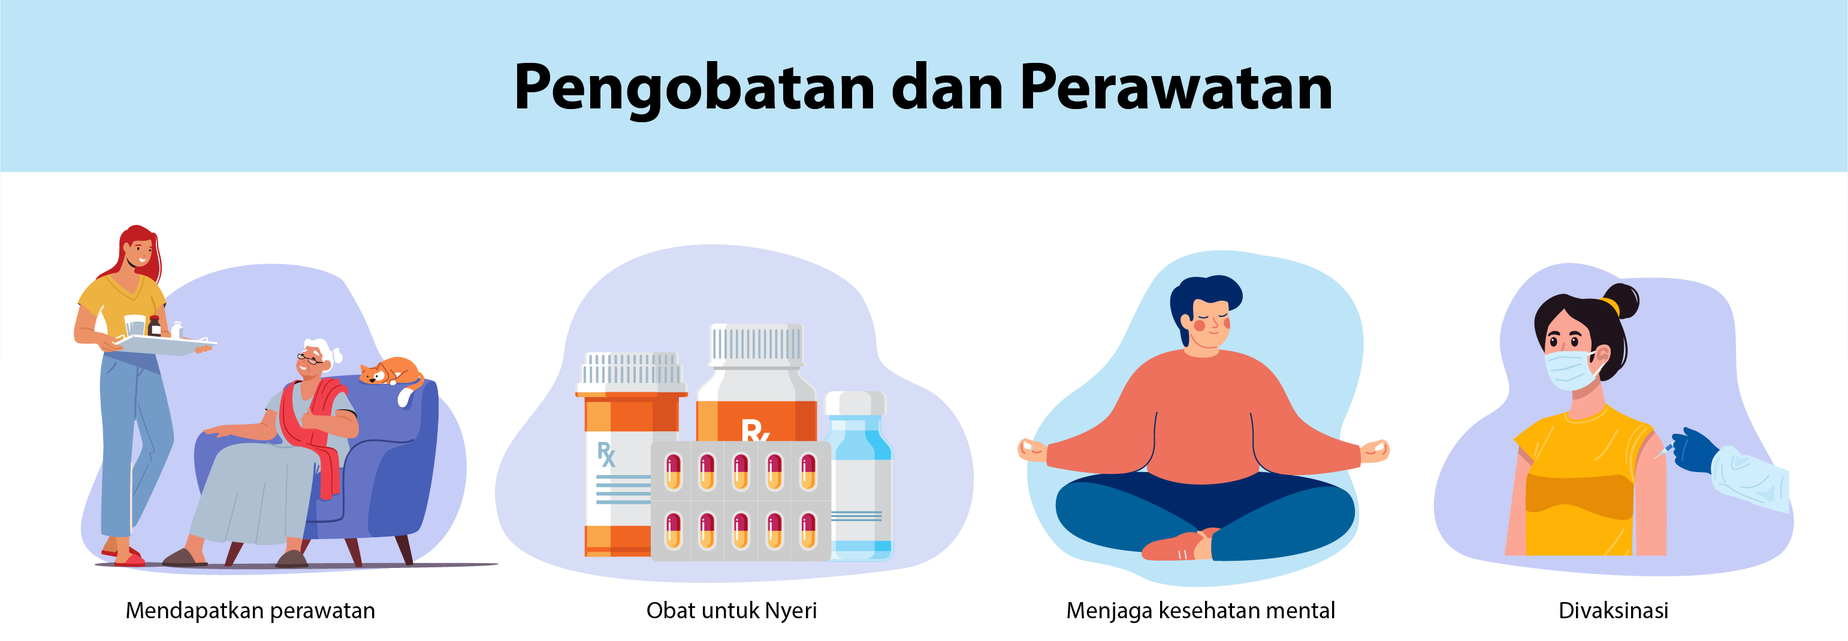
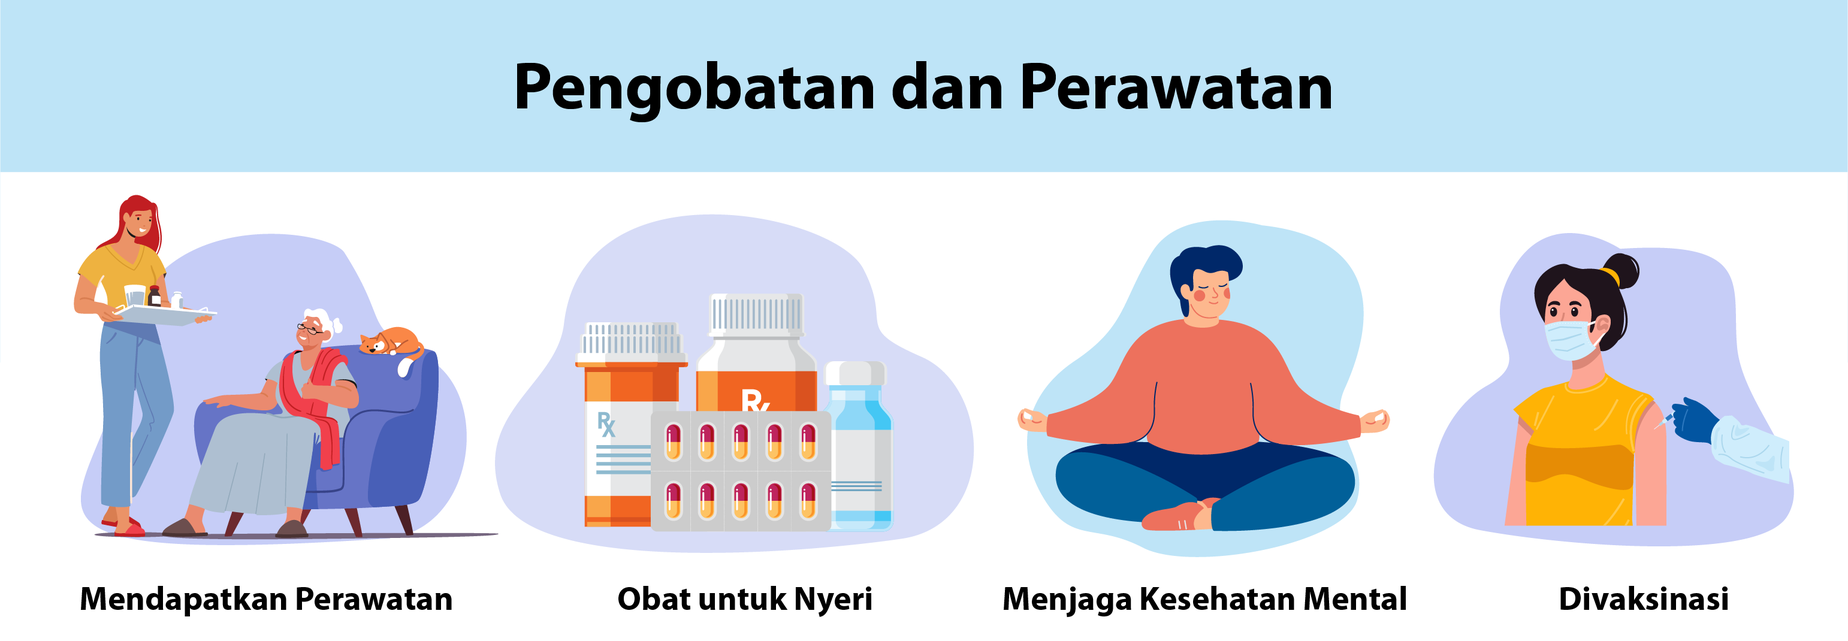
update

Changed region(s): [[0.0311, 0.3084, 0.9961, 0.9869], [0.3113, 0.3084, 0.4981, 0.4935]]

diff --git a/sass/style.css b/sass/style.css
@@ -1,1 +1,1 @@
-@font-face{font-family:"levi";src:url("../fonts/LEVIBRUSH.woff2");src:local("../fonts/LEVIBRUSH.woff2");src:url("../fonts/LEVIBRUSH.woff2") format("woff2")}section{background:#fafafa;position:relative;padding:32px 0;z-index:30}section h2{text-align:left}@keyframes lab_round{0%{transform:rotateZ(0deg)}100%{transform:rotateZ(359deg)}}.banner{height:100vh;position:relative;padding:0}.banner .sumbers{font-size:12px}.banner .sumbers a{color:#fff}.banner:after{content:"";position:absolute;bottom:0;left:0;right:0;height:500px;background:linear-gradient(to top, #06264d, transparent)}.banner__help{position:absolute;right:16px;z-index:9;top:46px;animation:lab_round 20s linear infinite}@media screen and (min-width: 1400px){.banner__help{right:10%;top:54px}}@media screen and (max-width: 766px){.banner__help{filter:brightness(0.8);position:absolute;right:20%;left:-20%;z-index:9;top:0;animation:lab_round 20s linear infinite}}.banner__help img{width:100%;height:100%;object-fit:contain}.banner__monyet{position:absolute;bottom:82px;left:50%;width:200px;height:auto;transform:translate(-50%, 0)}@media screen and (max-width: 766px){.banner__monyet{bottom:100px}}.banner__monyet.two{bottom:120px;left:42%;width:130px}.banner__monyet.three{bottom:50%;opacity:.5;left:45%;width:100px;height:100px}.banner__monyet.four{bottom:35%;opacity:.5;left:35%;width:145px;height:145px}.banner__monyet img{width:100%;height:100%;object-fit:contain}.banner__img{width:100%;height:100%}.banner__img img{width:100%;height:100%;object-fit:cover}.banner__title{position:absolute;left:32px;bottom:32px;width:700px;z-index:9}@media screen and (min-width: 1400px){.banner__title{left:15%}}@media screen and (max-width: 766px){.banner__title{left:0;width:fit-content;top:initial;bottom:52px}}.banner__title h2{color:#fff;font-size:60px;font-family:"Acme";text-shadow:2px 2px #000}@media screen and (max-width: 766px){.banner__title h2{line-height:46px;font-size:43px;margin:0 8px}}.banner__data{bottom:32px;left:72px;display:none;z-index:9;position:absolute}@media screen and (min-width: 1400px){.banner__data{left:15%}}@media screen and (max-width: 766px){.banner__data{left:32px}}.banner__data h3{color:#0f9;font-size:80px}.banner__data .titlex,.banner__data li{color:#fff}.banner__data ul{padding:0 8px}.banner__data ul li{display:block;position:relative;list-style-type:none;padding:8px 0 8px 20px}.banner__data ul li:nth-child(2):after{background:#ff5f5e}.banner__data ul li:after{content:"";width:10px;height:10px;border-radius:50%;position:absolute;left:0;transform:translate(0%, 50%);background:#ff9c00;top:30%}.banner__data ul li .datax,.banner__data ul li .number{display:inline-block}.banner__data ul li .datax{width:200px}.wrap-detik{width:640px;margin:0 auto;display:block;position:relative}@media screen and (max-width: 766px){.wrap-detik{width:auto}}.paragraph{background:#06264d;position:relative;z-index:80;position:relative}@media screen and (max-width: 766px){.paragraph .wrap-detik{margin:0 16px}}@keyframes MoveUpDown{0%,100%{top:0}50%{top:40px}}.paragraph__help{position:absolute;left:-20%;top:0;width:200px;opacity:.15;height:200px;animation:MoveUpDown 4s linear infinite}.paragraph__help img{width:100%;height:100%;object-fit:contain}.paragraph__help.two{filter:grayscale(1);top:initial;opacity:.1;right:-82px;left:initial;bottom:-72px;animation:opacities 6s linear infinite}@media screen and (max-width: 766px){.paragraph__help.two{right:initial;left:-20%;bottom:5%}}.paragraph__help.three{left:initial;right:-30px;width:100px;animation:none}.paragraph__help.four{left:initial;right:-120px;width:80px;top:50px;animation:MoveUpDown 5.5s linear infinite}.paragraph__help.five{left:-40px;right:initial;width:80px;bottom:0;top:initial;animation:none}@keyframes opacities{0%,100%{filter:grayscale(1);opacity:.1}50%{filter:grayscale(0.1);opacity:.3}}.paragraph p,.paragraph li{font-size:18px}@media screen and (max-width: 766px){.paragraph p,.paragraph li{font-size:18px}}@media screen and (max-width: 766px){.paragraph{padding-top:16px}}.paragraph .image_{position:absolute;left:50%;bottom:0;width:480px;opacity:.1;display:none;filter:grayscale(100%);height:auto;transform:translate(-50%, 35%);z-index:1}.paragraph .image_ img{width:100%;height:100%;object-fit:contain}.paragraph .jokowi{position:absolute;top:-62px;opacity:.6;right:-200px;width:420px;height:420px;z-index:1}.paragraph .jokowi::after{content:"";position:absolute;bottom:0;left:0;right:0;height:110px;background:#fafafa}@media screen and (max-width: 766px){.paragraph .jokowi{right:-54px;width:320px;opacity:.8;position:absolute;bottom:initial;top:36px}}.paragraph .jokowi img{width:100%;height:100%;border-radius:50%;object-fit:contain}@keyframes fade{0%{opacity:0}20%{opacity:1}33%{opacity:1}53%{opacity:0}100%{opacity:0}}.paragraph .image{width:85%;height:auto;border:solid blur(3px) rgba(0,0,0,.03);box-shadow:2px 2px 5px rgba(0,0,0,.2),2px 2px 17px rgba(0,0,0,.35),2px 2px 25px rgba(0,0,0,.5);margin:16px auto 16px}.paragraph .image img{width:100%;height:100%;object-fit:cover}@media screen and (max-width: 766px){.paragraph .image{width:100%}}.credit{border-top:2px solid #143864;position:relative;z-index:80;background:#021934}.credit .doddle{position:absolute;left:0;right:0;top:0;bottom:0}.credit .doddle img{width:100%;height:100%;object-fit:cover}.credit .name,.credit .jobdesc{color:#fff}@media screen and (max-width: 766px){.credit .name,.credit .jobdesc{font-size:14px}}.credit .jobdesc{font-size:14px;margin:8px 0 0;color:#dfdfdf}.hidden{display:none !important}.sticky{position:fixed !important;top:20px;width:100%;right:0}@media screen and (max-width: 766px){.sticky{top:40px}}.logo-detik{position:absolute;left:12px;top:12px;z-index:999;width:90px}@media screen and (max-width: 766px){.logo-detik{top:12px;left:50%;width:80px;transform:translate(-50%, 0px)}}.footer{z-index:99 !important}#shapes{position:absolute;width:640px;top:60vh;display:block;z-index:11;transform:skewY(-2deg)}@media screen and (max-width: 766px){#shapes{width:auto;top:16vh}}#shapes h1{font-size:47px;font-weight:700;font-family:"Acme";text-shadow:4px 4px 0 rgba(0,0,0,.1)}@media screen and (max-width: 766px){#shapes h1{font-size:28px}}.circle-1{position:absolute;border-radius:50%;margin:0;width:160px;height:160px;background:rgba(0,0,0,.1);top:-16px;left:0px;animation:move1 4s linear infinite}.circle-2{position:absolute;border-radius:50%;margin:0;width:160px;height:160px;background:rgba(0,0,0,.2);margin:0;top:60px;left:45px;animation:move2 3.5s linear infinite}@keyframes move1{0%{transform:translate(0px)}25%{transform:translateX(8px)}50%{transform:translate(16px, 16px)}75%{transform:translateY(8px)}100%{transform:translate(0px)}}@keyframes move2{0%{transform:translate(0px)}25%{transform:translateX(-8px)}50%{transform:translate(-16px, -20px)}75%{transform:translateY(-12px)}100%{transform:translate(0px)}}@keyframes neon{0%{text-shadow:none}30%{text-shadow:6px 6px 9px rgba(0,139,139,.7),-6px -6px 9px rgba(0,139,139,.7),-6px 6px 9px rgba(0,139,139,.7),6px -6px 9px rgba(0,139,139,.7)}50%{text-shadow:6px 6px 9px rgba(255,99,71,.7),-6px -6px 9px rgba(255,99,71,.7),-6px 6px 9px rgba(255,99,71,.7),6px -6px 9px rgba(255,99,71,.7)}80%{text-shadow:6px 6px 9px rgba(0,191,255,.7),-6px -6px 9px rgba(0,191,255,.7),-6px 6px 9px rgba(0,191,255,.7),6px -6px 9px rgba(0,191,255,.7)}100%{text-shadow:6px 6px 9px rgba(220,20,60,.7),-6px -6px 9px rgba(220,20,60,.7),-6px 6px 9px rgba(220,20,60,.7),6px -6px 9px rgba(220,20,60,.7)}}.contentx{background:#06264d;position:relative}.contentx__bg{position:absolute;top:0;left:0;right:0;opacity:.07;height:auto;width:100%;z-index:2}@media screen and (max-width: 766px){.contentx__bg{bottom:50%}}.contentx__bg img{width:100%;height:100%;object-fit:contain}@media screen and (max-width: 766px){.contentx__bg img{object-fit:cover}}.contentx .detail-refund{position:relative;z-index:20;background:transparent;padding:16px}@media screen and (max-width: 766px){.contentx .detail-refund{padding:16px 0}}.contentx .detail-refund .ul-cat{display:block;padding:0}.contentx .detail-refund .ul-cat li{display:inline-block;margin:4px 2px;background:#060c25;padding:4px 8px;border-radius:4px;cursor:pointer}.contentx .detail-refund .ul-cat li.activeMenu,.contentx .detail-refund .ul-cat li:hover{background:#7a2626}.contentx__doc{position:absolute;left:-30%;top:0;z-index:5;height:400px;width:auto}@media screen and (max-width: 766px){.contentx__doc{left:0;height:320px;top:200px}}.contentx__doc img{width:100%;height:100%;object-fit:contain}.contentx__doc.twox{left:initial;top:initial;right:-30%;bottom:0}@media screen and (max-width: 766px){.contentx__doc.twox{display:none !important}}.contentx__img{width:100px;height:300px}.contentx__img img{width:100%;height:100%;object-fit:cover}.contentx .open{display:block;animation:showup .8s ease-in-out}@keyframes showup{0%{opacity:0}30%{opacity:.1}50%{opacity:.2}70%{opacity:.6}100%{opacity:1}}.contentx .refund{padding:32px 0}.contentx .category-click{display:block;margin:0 auto;position:relative;z-index:99;text-align:center}@media screen and (max-width: 766px){.contentx .category-click{margin-left:150px}}.contentx .category-click .category-airline{cursor:pointer;display:inline-block;width:150px;background:#1b4c79;text-align:center;font-weight:bold;height:150px;border-radius:50%;vertical-align:middle;margin:8px;padding:8px;transition:.3s}.contentx .category-click .category-airline .image{margin:0 auto;text-align:center;width:100px;height:100px}.contentx .category-click .category-airline .image img{width:100%;height:100%;object-fit:contain}.contentx .category-click .category-airline .name{background:#7a2626;color:#fafafa;margin-top:4px;box-shadow:0 3px 6px #fafafa}.contentx .category-click .category-airline:hover{background:rgba(2,25,52,.8)}@media screen and (max-width: 766px){.contentx .category-click .category-airline i{display:none}}@media screen and (max-width: 766px){.contentx .category-click .category-airline{width:160px;text-align:center;margin:8px;font-size:14px;height:auto}}.contentx .closer{cursor:pointer;text-align:center;width:fit-content;margin:0 auto;border-radius:8px;padding:2px 8px;transition:.2s;background:rgba(255,255,255,.1)}.contentx .closer:hover{background:rgba(255,255,255,.2)}.contentx .twox{display:none}.contentx .airline-content{display:none}.contentx .airline-content__icon{position:absolute;right:0;top:0;width:100px;height:100px}.contentx .airline-content__icon img{width:100%;height:100%;object-fit:contain}.loading{display:none}.bg-category{background:rgba(2,25,52,.8) !important}.wrapper-box table{background:rgba(2,25,52,.25)}.nonee{list-style-type:none;padding:0}.nonee li{margin-bottom:16px}.nonee li .text,.nonee li .image{display:inline-block;vertical-align:middle}.nonee li .text{width:70%}@media screen and (max-width: 766px){.nonee li .text{width:60%}}.nonee li .image{width:25%;height:100px}@media screen and (max-width: 766px){.nonee li .image{width:35%;height:120px;margin-right:8px}}.nonee li .image img{width:100%;height:100%;object-fit:contain}.sources{background:#06264d}.sources a{transition:.2s}.sources a:hover{color:#dfdfdf;margin-left:3px;text-decoration:none}.card-img{width:fit-content;margin:0 auto 4px;text-align:center;border-radius:16px;margin:16px 0}.card-img .sumbernya{font-size:11px;margin:8px 0 0}.card-img .sumbernya a{font-size:11px;color:#fff}.card-img img{width:100%;height:100%;object-fit:contain}@media screen and (max-width: 766px){.card-img{width:auto}}.card-img img{width:100%;border-radius:16px;height:100%;object-fit:contain}.no-radius{border-radius:0 !important}.no-radius img{border-radius:0 !important}#show-airasia li:first-child::before{content:"";position:absolute;top:-55px;width:100px;z-index:-1;height:100px;border:1px dashed;left:30px;border-left-color:transparent;border-top-color:transparent}@media screen and (max-width: 766px){#show-airasia li:first-child::before{display:none}}#show-airasia li:nth-child(2)::before,#show-airasia li:last-child::before{content:"";position:absolute;width:150px;z-index:-1;height:45px;border:1px dashed;left:129px;border-bottom-color:transparent;top:0px}@media screen and (max-width: 766px){#show-airasia li:nth-child(2)::before,#show-airasia li:last-child::before{display:none}}#show-airasia li:last-child::before{width:320px}#show-batik-air li:first-child::before{content:"";position:absolute;top:0px;width:167px;z-index:-1;border-right-color:transparent;height:40px;border:1px dashed;left:72px;border-bottom-color:transparent}@media screen and (max-width: 766px){#show-batik-air li:first-child::before{display:none}}#show-batik-air li:nth-child(2)::before,#show-batik-air li:last-child::before{content:"";position:absolute;width:250px;z-index:-1;height:45px;border:1px dashed;left:186px;border-left-color:transparent;border-bottom-color:transparent;top:0px}@media screen and (max-width: 766px){#show-batik-air li:nth-child(2)::before,#show-batik-air li:last-child::before{display:none}}#show-batik-air li:last-child::before{width:320px;height:61px;top:-61px;left:16px;border-top-color:transparent}#show-ketiga li:first-child::before{content:"";position:absolute;top:0px;width:188px;z-index:-1;border-right-color:transparent;height:40px;border:1px dashed;left:72px;border-bottom-color:transparent}@media screen and (max-width: 766px){#show-ketiga li:first-child::before{display:none}}#show-ketiga li:nth-child(2)::before,#show-ketiga li:last-child::before{content:"";position:absolute;width:250px;z-index:-1;height:45px;border:1px dashed;left:260px;border-left-color:transparent;border-bottom-color:transparent;top:0px}@media screen and (max-width: 766px){#show-ketiga li:nth-child(2)::before,#show-ketiga li:last-child::before{display:none}}#show-ketiga li:last-child::before{width:320px;height:61px;top:-61px;left:170px;border-top-color:transparent}.images{width:100%;height:100%;margin:8px 0}.images img{width:100%;height:100%;object-fit:contain}/*# sourceMappingURL=style.css.map */
+@font-face{font-family:"levi";src:url("../fonts/LEVIBRUSH.woff2");src:local("../fonts/LEVIBRUSH.woff2");src:url("../fonts/LEVIBRUSH.woff2") format("woff2")}section{background:#fafafa;position:relative;padding:32px 0;z-index:30}section h2{text-align:left}@keyframes lab_round{0%{transform:rotateZ(0deg)}100%{transform:rotateZ(359deg)}}.banner{height:100vh;position:relative;padding:0}.banner .sumbers{font-size:12px}.banner .sumbers a{color:#fff}.banner:after{content:"";position:absolute;bottom:0;left:0;right:0;height:500px;background:linear-gradient(to top, #06264d, transparent)}.banner__help{position:absolute;right:16px;z-index:9;top:46px;animation:lab_round 20s linear infinite}@media screen and (min-width: 1400px){.banner__help{right:10%;top:54px}}@media screen and (max-width: 766px){.banner__help{filter:brightness(0.8);position:absolute;right:20%;left:-20%;z-index:9;top:0;animation:lab_round 20s linear infinite}}.banner__help img{width:100%;height:100%;object-fit:contain}.banner__monyet{position:absolute;bottom:82px;left:50%;width:200px;height:auto;transform:translate(-50%, 0)}@media screen and (max-width: 766px){.banner__monyet{bottom:100px}}.banner__monyet.two{bottom:120px;left:42%;width:130px}.banner__monyet.three{bottom:50%;opacity:.5;left:45%;width:100px;height:100px}.banner__monyet.four{bottom:35%;opacity:.5;left:35%;width:145px;height:145px}.banner__monyet img{width:100%;height:100%;object-fit:contain}.banner__img{width:100%;height:100%}.banner__img img{width:100%;height:100%;object-fit:cover}.banner__title{position:absolute;left:32px;bottom:32px;width:700px;z-index:9}@media screen and (min-width: 1400px){.banner__title{left:15%}}@media screen and (max-width: 766px){.banner__title{left:0;width:fit-content;top:initial;bottom:52px}}.banner__title h2{color:#fff;font-size:60px;font-family:"Acme";text-shadow:2px 2px #000}@media screen and (max-width: 766px){.banner__title h2{line-height:46px;font-size:43px;margin:0 8px}}.banner__data{bottom:32px;left:72px;display:none;z-index:9;position:absolute}@media screen and (min-width: 1400px){.banner__data{left:15%}}@media screen and (max-width: 766px){.banner__data{left:32px}}.banner__data h3{color:#0f9;font-size:80px}.banner__data .titlex,.banner__data li{color:#fff}.banner__data ul{padding:0 8px}.banner__data ul li{display:block;position:relative;list-style-type:none;padding:8px 0 8px 20px}.banner__data ul li:nth-child(2):after{background:#ff5f5e}.banner__data ul li:after{content:"";width:10px;height:10px;border-radius:50%;position:absolute;left:0;transform:translate(0%, 50%);background:#ff9c00;top:30%}.banner__data ul li .datax,.banner__data ul li .number{display:inline-block}.banner__data ul li .datax{width:200px}.wrap-detik{width:640px;margin:0 auto;display:block;position:relative}@media screen and (max-width: 766px){.wrap-detik{width:auto}}.paragraph{background:#06264d;position:relative;z-index:80;position:relative}@media screen and (max-width: 766px){.paragraph .wrap-detik{margin:0 16px}}@keyframes MoveUpDown{0%,100%{top:0}50%{top:40px}}.paragraph__help{position:absolute;left:-20%;top:0;width:200px;opacity:.15;height:200px;animation:MoveUpDown 4s linear infinite}.paragraph__help img{width:100%;height:100%;object-fit:contain}.paragraph__help.two{filter:grayscale(1);top:initial;opacity:.1;right:-82px;left:initial;bottom:-72px;animation:opacities 6s linear infinite}@media screen and (max-width: 766px){.paragraph__help.two{right:initial;left:-20%;bottom:5%}}.paragraph__help.three{left:initial;right:-30px;width:100px;animation:none}.paragraph__help.four{left:initial;right:-120px;width:80px;top:50px;animation:MoveUpDown 5.5s linear infinite}.paragraph__help.five{left:-40px;right:initial;width:80px;bottom:0;top:initial;animation:none}@keyframes opacities{0%,100%{filter:grayscale(1);opacity:.1}50%{filter:grayscale(0.1);opacity:.3}}.paragraph p,.paragraph li{font-size:18px}@media screen and (max-width: 766px){.paragraph p,.paragraph li{font-size:18px}}@media screen and (max-width: 766px){.paragraph{padding-top:16px}}.paragraph .image_{position:absolute;left:50%;bottom:0;width:480px;opacity:.1;display:none;filter:grayscale(100%);height:auto;transform:translate(-50%, 35%);z-index:1}.paragraph .image_ img{width:100%;height:100%;object-fit:contain}.paragraph .jokowi{position:absolute;top:-62px;opacity:.6;right:-200px;width:420px;height:420px;z-index:1}.paragraph .jokowi::after{content:"";position:absolute;bottom:0;left:0;right:0;height:110px;background:#fafafa}@media screen and (max-width: 766px){.paragraph .jokowi{right:-54px;width:320px;opacity:.8;position:absolute;bottom:initial;top:36px}}.paragraph .jokowi img{width:100%;height:100%;border-radius:50%;object-fit:contain}@keyframes fade{0%{opacity:0}20%{opacity:1}33%{opacity:1}53%{opacity:0}100%{opacity:0}}.paragraph .image{width:85%;height:auto;border:solid blur(3px) rgba(0,0,0,.03);box-shadow:2px 2px 5px rgba(0,0,0,.2),2px 2px 17px rgba(0,0,0,.35),2px 2px 25px rgba(0,0,0,.5);margin:16px auto 16px}.paragraph .image img{width:100%;height:100%;object-fit:cover}@media screen and (max-width: 766px){.paragraph .image{width:100%}}.credit{border-top:2px solid #143864;position:relative;z-index:80;background:#021934}.credit .doddle{position:absolute;left:0;right:0;top:0;bottom:0}.credit .doddle img{width:100%;height:100%;object-fit:cover}.credit .name,.credit .jobdesc{color:#fff}@media screen and (max-width: 766px){.credit .name,.credit .jobdesc{font-size:14px}}.credit .jobdesc{font-size:14px;margin:8px 0 0;color:#dfdfdf}.hidden{display:none !important}.sticky{position:fixed !important;top:20px;width:100%;right:0}@media screen and (max-width: 766px){.sticky{top:40px}}.logo-detik{position:absolute;left:12px;top:12px;z-index:999;width:90px}@media screen and (max-width: 766px){.logo-detik{top:12px;left:50%;width:80px;transform:translate(-50%, 0px)}}.footer{z-index:99 !important}#shapes{position:absolute;width:640px;top:60vh;display:block;z-index:11;transform:skewY(-2deg)}@media screen and (max-width: 766px){#shapes{width:auto;top:16vh}}#shapes h1{font-size:47px;font-weight:700;font-family:"Acme";text-shadow:4px 4px 0 rgba(0,0,0,.1)}@media screen and (max-width: 766px){#shapes h1{font-size:28px}}.circle-1{position:absolute;border-radius:50%;margin:0;width:160px;height:160px;background:rgba(0,0,0,.1);top:-16px;left:0px;animation:move1 4s linear infinite}.circle-2{position:absolute;border-radius:50%;margin:0;width:160px;height:160px;background:rgba(0,0,0,.2);margin:0;top:60px;left:45px;animation:move2 3.5s linear infinite}@keyframes move1{0%{transform:translate(0px)}25%{transform:translateX(8px)}50%{transform:translate(16px, 16px)}75%{transform:translateY(8px)}100%{transform:translate(0px)}}@keyframes move2{0%{transform:translate(0px)}25%{transform:translateX(-8px)}50%{transform:translate(-16px, -20px)}75%{transform:translateY(-12px)}100%{transform:translate(0px)}}@keyframes neon{0%{text-shadow:none}30%{text-shadow:6px 6px 9px rgba(0,139,139,.7),-6px -6px 9px rgba(0,139,139,.7),-6px 6px 9px rgba(0,139,139,.7),6px -6px 9px rgba(0,139,139,.7)}50%{text-shadow:6px 6px 9px rgba(255,99,71,.7),-6px -6px 9px rgba(255,99,71,.7),-6px 6px 9px rgba(255,99,71,.7),6px -6px 9px rgba(255,99,71,.7)}80%{text-shadow:6px 6px 9px rgba(0,191,255,.7),-6px -6px 9px rgba(0,191,255,.7),-6px 6px 9px rgba(0,191,255,.7),6px -6px 9px rgba(0,191,255,.7)}100%{text-shadow:6px 6px 9px rgba(220,20,60,.7),-6px -6px 9px rgba(220,20,60,.7),-6px 6px 9px rgba(220,20,60,.7),6px -6px 9px rgba(220,20,60,.7)}}.contentx{background:#06264d;position:relative}.contentx__bg{position:absolute;top:0;left:0;right:0;opacity:.07;height:auto;width:100%;z-index:2}@media screen and (max-width: 766px){.contentx__bg{bottom:50%}}.contentx__bg img{width:100%;height:100%;object-fit:contain}@media screen and (max-width: 766px){.contentx__bg img{object-fit:cover}}.contentx .detail-refund{position:relative;z-index:20;background:transparent;padding:16px}@media screen and (max-width: 766px){.contentx .detail-refund{padding:16px 0}}.contentx .detail-refund .ul-cat{display:block;padding:0}.contentx .detail-refund .ul-cat li{display:inline-block;margin:4px 2px;background:#060c25;padding:4px 8px;border-radius:4px;cursor:pointer}.contentx .detail-refund .ul-cat li.activeMenu,.contentx .detail-refund .ul-cat li:hover{background:#7a2626}.contentx__doc{position:absolute;left:-30%;top:0;z-index:5;height:400px;width:auto}@media screen and (max-width: 766px){.contentx__doc{left:0;height:320px;top:200px}}.contentx__doc img{width:100%;height:100%;object-fit:contain}.contentx__doc.twox{left:initial;top:initial;right:-30%;bottom:0}@media screen and (max-width: 766px){.contentx__doc.twox{display:none !important}}.contentx__img{width:100px;height:300px}.contentx__img img{width:100%;height:100%;object-fit:cover}.contentx .open{display:block;animation:showup .8s ease-in-out}@keyframes showup{0%{opacity:0}30%{opacity:.1}50%{opacity:.2}70%{opacity:.6}100%{opacity:1}}.contentx .refund{padding:32px 0}.contentx .category-click{display:block;margin:0 auto;position:relative;z-index:99;text-align:center}@media screen and (max-width: 766px){.contentx .category-click{margin-left:150px}}.contentx .category-click .category-airline{cursor:pointer;display:inline-block;width:150px;background:#1b4c79;text-align:center;font-weight:bold;height:150px;border-radius:50%;vertical-align:middle;margin:8px;padding:8px;transition:.3s}.contentx .category-click .category-airline .image{margin:0 auto;text-align:center;width:100px;height:100px}.contentx .category-click .category-airline .image img{width:100%;height:100%;object-fit:contain}.contentx .category-click .category-airline .name{background:#7a2626;color:#fafafa;font-size:16px;margin-top:4px;box-shadow:0 3px 6px #fafafa}.contentx .category-click .category-airline:hover{background:rgba(2,25,52,.8)}@media screen and (max-width: 766px){.contentx .category-click .category-airline i{display:none}}@media screen and (max-width: 766px){.contentx .category-click .category-airline{width:160px;text-align:center;margin:8px;font-size:14px;height:auto}}.contentx .closer{cursor:pointer;text-align:center;width:fit-content;margin:0 auto;border-radius:8px;padding:2px 8px;transition:.2s;background:rgba(255,255,255,.1)}.contentx .closer:hover{background:rgba(255,255,255,.2)}.contentx .twox{display:none}.contentx .airline-content{display:none}.contentx .airline-content__icon{position:absolute;right:0;top:0;width:100px;height:100px}.contentx .airline-content__icon img{width:100%;height:100%;object-fit:contain}.loading{display:none}.bg-category{background:rgba(2,25,52,.8) !important}.wrapper-box table{background:rgba(2,25,52,.25)}.nonee{list-style-type:none;padding:0}.nonee li{margin-bottom:16px}.nonee li .text,.nonee li .image{display:inline-block;vertical-align:middle}.nonee li .text{width:70%}@media screen and (max-width: 766px){.nonee li .text{width:60%}}.nonee li .image{width:25%;height:100px}@media screen and (max-width: 766px){.nonee li .image{width:35%;height:120px;margin-right:8px}}.nonee li .image img{width:100%;height:100%;object-fit:contain}.sources{background:#06264d}.sources a{transition:.2s}.sources a:hover{color:#dfdfdf;margin-left:3px;text-decoration:none}.card-img{width:fit-content;margin:0 auto 4px;text-align:center;border-radius:16px;margin:16px 0}.card-img .sumbernya{font-size:11px;margin:8px 0 0}.card-img .sumbernya a{font-size:11px;color:#fff}.card-img img{width:100%;height:100%;object-fit:contain}@media screen and (max-width: 766px){.card-img{width:auto}}.card-img img{width:100%;border-radius:16px;height:100%;object-fit:contain}.no-radius{border-radius:0 !important}.no-radius img{border-radius:0 !important}#show-airasia li:first-child::before{content:"";position:absolute;top:-55px;width:100px;z-index:-1;height:100px;border:1px dashed;left:30px;border-left-color:transparent;border-top-color:transparent}@media screen and (max-width: 766px){#show-airasia li:first-child::before{display:none}}#show-airasia li:nth-child(2)::before,#show-airasia li:last-child::before{content:"";position:absolute;width:150px;z-index:-1;height:45px;border:1px dashed;left:129px;border-bottom-color:transparent;top:0px}@media screen and (max-width: 766px){#show-airasia li:nth-child(2)::before,#show-airasia li:last-child::before{display:none}}#show-airasia li:last-child::before{width:320px}#show-batik-air li:first-child::before{content:"";position:absolute;top:0px;width:167px;z-index:-1;border-right-color:transparent;height:40px;border:1px dashed;left:72px;border-bottom-color:transparent}@media screen and (max-width: 766px){#show-batik-air li:first-child::before{display:none}}#show-batik-air li:nth-child(2)::before,#show-batik-air li:last-child::before{content:"";position:absolute;width:250px;z-index:-1;height:45px;border:1px dashed;left:186px;border-left-color:transparent;border-bottom-color:transparent;top:0px}@media screen and (max-width: 766px){#show-batik-air li:nth-child(2)::before,#show-batik-air li:last-child::before{display:none}}#show-batik-air li:last-child::before{width:320px;height:61px;top:-61px;left:16px;border-top-color:transparent}#show-ketiga li:first-child::before{content:"";position:absolute;top:0px;width:188px;z-index:-1;border-right-color:transparent;height:40px;border:1px dashed;left:72px;border-bottom-color:transparent}@media screen and (max-width: 766px){#show-ketiga li:first-child::before{display:none}}#show-ketiga li:nth-child(2)::before,#show-ketiga li:last-child::before{content:"";position:absolute;width:250px;z-index:-1;height:45px;border:1px dashed;left:260px;border-left-color:transparent;border-bottom-color:transparent;top:0px}@media screen and (max-width: 766px){#show-ketiga li:nth-child(2)::before,#show-ketiga li:last-child::before{display:none}}#show-ketiga li:last-child::before{width:320px;height:61px;top:-61px;left:170px;border-top-color:transparent}.images{width:100%;height:100%;margin:8px 0}.images img{width:100%;height:100%;object-fit:contain}.conten li{font-size:16px}.title{font-family:"Quicksand"}body main{font-size:16px}/*# sourceMappingURL=style.css.map */

diff --git a/sass/style.scss b/sass/style.scss
@@ -782,6 +782,7 @@ section {
         // box-shadow: 0 3px 6px #333;
         background: #7a2626;
         color: #fafafa;
+        font-size: 16px;
         margin-top: 4px;
         // border-radius: 8px;
         box-shadow: 0 3px 6px #fafafa;
@@ -1093,5 +1094,21 @@ section {
     width: 100%;
     height: 100%;
     object-fit: contain;
+  }
+}
+
+.conten {
+  li {
+    font-size: 16px;
+  }
+}
+
+.title {
+  font-family: 'Quicksand';
+}
+
+body {
+  main {
+    font-size: 16px;
   }
 }

diff --git a/content.html b/content.html
@@ -11,7 +11,7 @@
     </div>
   </div>
   <section class="banner">
-    <div class="logo-detik" hidden>
+    <div class="logo-detik">
       <a href="https://news.detik.com/x/">
         <img
           src="img/logo-detikx.webp"
